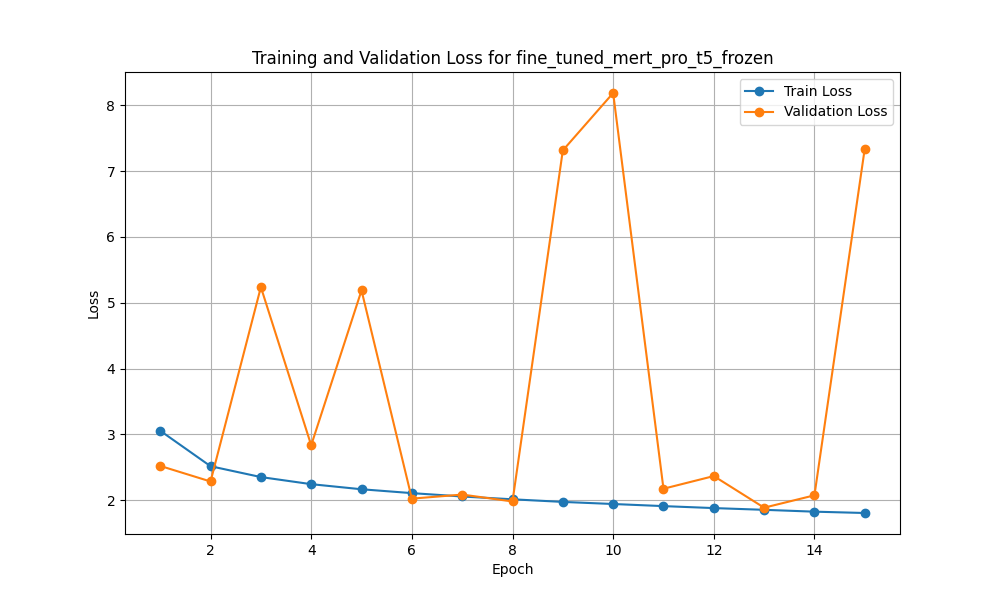
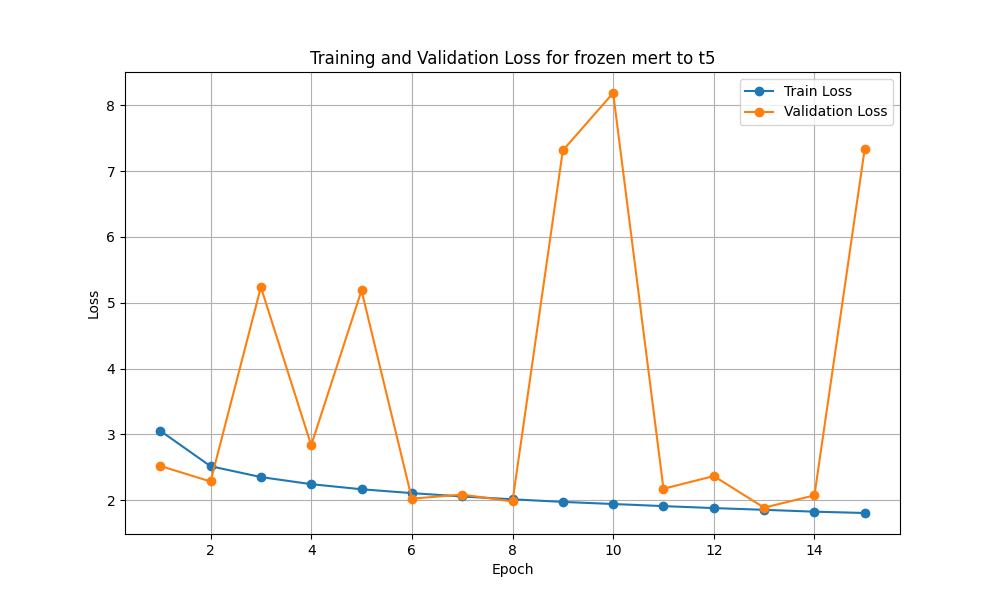
plots for clap

Changed region(s): [[0.248, 0.09, 0.775, 0.12]]

diff --git a/clap-to-t5/infer_all.py b/clap-to-t5/infer_all.py
@@ -1,0 +1,124 @@
+import torch
+from transformers import AutoModel, AutoProcessor, T5Tokenizer, T5ForConditionalGeneration
+import numpy as np
+from scipy.io import wavfile
+import torch.nn as nn
+import os
+from dataset_helpers import AudioCaptionDataset, preprocess_audio, MAX_TOKENS, BATCH_SIZE
+import pandas as pd
+from gcloud_helpers import download_from_gcs, delete_local_copy
+from tqdm import tqdm
+import argparse
+from torch.utils.data import DataLoader
+import pickle
+
+DEVICE = "cuda" if torch.cuda.is_available() else "cpu"
+print("Device:", DEVICE)
+
+DEBUG = False
+
+# Load the fine-tuned model, clap2 model, linear layer, and processor
+train_data_path = "../data/splits/train.csv"
+val_data_path = "../data/splits/val.csv"
+test_data_path = "../data/splits/test.csv"
+
+def load_model_checkpoint(model_name, epoch):
+    """
+    Load the models from a specific checkpoint.
+    """
+    checkpoint_path = f"models/{model_name}/e{epoch}"
+    local_path = f"/tmp/{model_name}/e{epoch}"
+    download_from_gcs(checkpoint_path, local_path)
+
+    t5_model = T5ForConditionalGeneration.from_pretrained(local_path + "/t5").to(DEVICE)
+    t5_tokenizer = T5Tokenizer.from_pretrained(local_path + "/t5")
+    clap_model = AutoModel.from_pretrained(local_path + "/clap").to(DEVICE)
+    processor = AutoProcessor.from_pretrained(local_path + "/clap")
+
+    delete_local_copy(local_path)
+
+    return t5_model, t5_tokenizer, clap_model, processor
+
+def infer(t5_model, t5_tokenizer, clap_model, processor, audio_paths, batch_size=8):
+    captions = []
+    num_batches = len(audio_paths) // batch_size + (len(audio_paths) % batch_size != 0)
+
+    for batch_idx in range(num_batches):
+        # Get batch of audio paths
+        batch_audio_paths = audio_paths[batch_idx * batch_size : (batch_idx + 1) * batch_size]
+        
+        # Preprocess audio files in the batch
+        batch_inputs = []
+        valid_paths = []
+        for audio_path in batch_audio_paths:
+            processed_audio, sample_rate = preprocess_audio(audio_path)
+            if processed_audio is not None and sample_rate == 48000:
+                inputs = processor(audios=processed_audio, return_tensors="pt", sampling_rate=sample_rate)
+                batch_inputs.append(inputs["input_features"])
+                valid_paths.append(audio_path)
+            else:
+                print(f"Skipping {audio_path} due to invalid preprocessing.")
+        
+        if not batch_inputs:  # Skip if no valid inputs
+            continue
+
+        # Combine inputs into a single tensor for batch processing
+        batch_inputs = torch.cat(batch_inputs, dim=0).to(DEVICE)
+
+        with torch.no_grad():
+            # Pass batch inputs through the clap model
+            clap_outputs = clap_model.get_audio_features(batch_inputs)
+
+            # Generate captions
+            generated_ids = t5_model.generate(inputs_embeds=clap_outputs.unsqueeze(1), max_new_tokens=MAX_TOKENS)
+            batch_captions = [t5_tokenizer.decode(ids, skip_special_tokens=True) for ids in generated_ids]
+            
+            # Append captions with corresponding audio paths
+            captions.extend(batch_captions)
+
+        print(f"Processed batch {batch_idx + 1}/{num_batches}")
+
+    return captions
+
+def main():
+    parser = argparse.ArgumentParser()
+    parser.add_argument("--frozen", type=str, default="frozen", help="frozen or unfrozen")
+    parser.add_argument("--epoch", type=int, default=15, help="Model checkpoint epoch to load")
+    args = parser.parse_args()
+
+    model_name = "fine_tuned_clap_t5_"
+    model_name += args.frozen
+
+    batch_size = 8
+
+    # Load test metadata
+    test_metadata = pd.read_csv(test_data_path)
+    output_file = "generated_captions_" + args.frozen + f"_e{args.epoch}" + ".pkl"
+
+    for metadata in [test_metadata]:
+        epoch = args.epoch
+        print(f"Processing epoch {epoch}...")
+        
+        # Load model components
+        t5_model, t5_tokenizer, clap_model, processor= load_model_checkpoint(model_name, epoch)
+        
+        # Perform inference
+        generated_captions = infer(
+            t5_model, t5_tokenizer, clap_model, processor, metadata["file_path"]
+        )
+
+        # Combine true captions and generated captions for saving
+        combined_captions = [
+            (true_caption, generated_caption)
+            for true_caption, generated_caption in zip(metadata["caption"], generated_captions)
+        ]
+        # print(combined_captions)
+        
+        # Save combined captions to a pickle file
+        with open(output_file, "wb") as f:
+            pickle.dump(combined_captions, f)
+        
+        print(f"True and generated captions saved to {output_file}")
+
+if __name__ == "__main__":
+    main()

diff --git a/plot_loss.py b/plot_loss.py
@@ -23,7 +23,7 @@ def parse_loss_file(loss_file_path):
     
     return train_losses, val_losses
 
-def plot_losses(model_name, base_local_path='models', save_path=None):
+def plot_losses(model_name, plot_title, base_local_path='models', save_path=None):
     """
     Plot the training and validation loss across epochs for the given model and save the plot to a file.
 
@@ -56,7 +56,7 @@ def plot_losses(model_name, base_local_path='models', save_path=None):
     plt.plot(range(1, 16), all_val_losses, label='Validation Loss', marker='o')
     plt.xlabel('Epoch')
     plt.ylabel('Loss')
-    plt.title(f'Training and Validation Loss for {model_name}')
+    plt.title(f'Training and Validation Loss for {plot_title}')
     plt.legend()
     plt.grid(True)
 
@@ -67,17 +67,31 @@ def plot_losses(model_name, base_local_path='models', save_path=None):
         plt.show()
 
 model_name = "fine_tuned_wav2vec_t5_frozen"
+plot_title = "frozen wav2vec 2.0 to t5"
 save_path = "plots/" + model_name + '_loss_plot.png' 
-plot_losses(model_name, save_path=save_path)
+plot_losses(model_name, plot_title, save_path=save_path)
 
 model_name = "fine_tuned_wav2vec_t5_unfrozen" 
+plot_title = "unrozen wav2vec 2.0 to t5"
 save_path = "plots/" + model_name + '_loss_plot.png'
-plot_losses(model_name, save_path=save_path)
+plot_losses(model_name, plot_title, save_path=save_path)
 
 model_name = "fine_tuned_mert_pro_t5_frozen" 
+plot_title = "frozen mert to t5"
 save_path = "plots/" + model_name + '_loss_plot.png'
-plot_losses(model_name, save_path=save_path)
+plot_losses(model_name, plot_title, save_path=save_path)
 
 model_name = "fine_tuned_mert_pro_t5_unfrozen" 
+plot_title = "ufnrozen mert to t5"
 save_path = "plots/" + model_name + '_loss_plot.png'
-plot_losses(model_name, save_path=save_path)
+plot_losses(model_name, plot_title, save_path=save_path)
+
+model_name = "fine_tuned_clap_t5_unfrozen" 
+plot_title = "frozen clap to t5"
+save_path = "plots/" + model_name + '_loss_plot.png'
+plot_losses(model_name, plot_title, save_path=save_path)
+
+model_name = "fine_tuned_clap_t5_unfrozen" 
+plot_title = "unfrozen clap to t5"
+save_path = "plots/" + model_name + '_loss_plot.png'
+plot_losses(model_name, plot_title, save_path=save_path)

diff --git a/clap-to-t5/clap_to_t5_train.py b/clap-to-t5/clap_to_t5_train.py
@@ -180,6 +180,7 @@ def evaluate(model, clap_model, val_loader):
     with torch.no_grad():
         for batch in tqdm(val_loader, desc="Evaluating"):
             inputs = batch["inputs"].to(DEVICE)
+            inputs["input_features"] = inputs["input_features"].squeeze(1)
             labels = batch["labels"].to(DEVICE)
             decoder_attention_mask = batch["decoder_attention_mask"].to(DEVICE)
 
